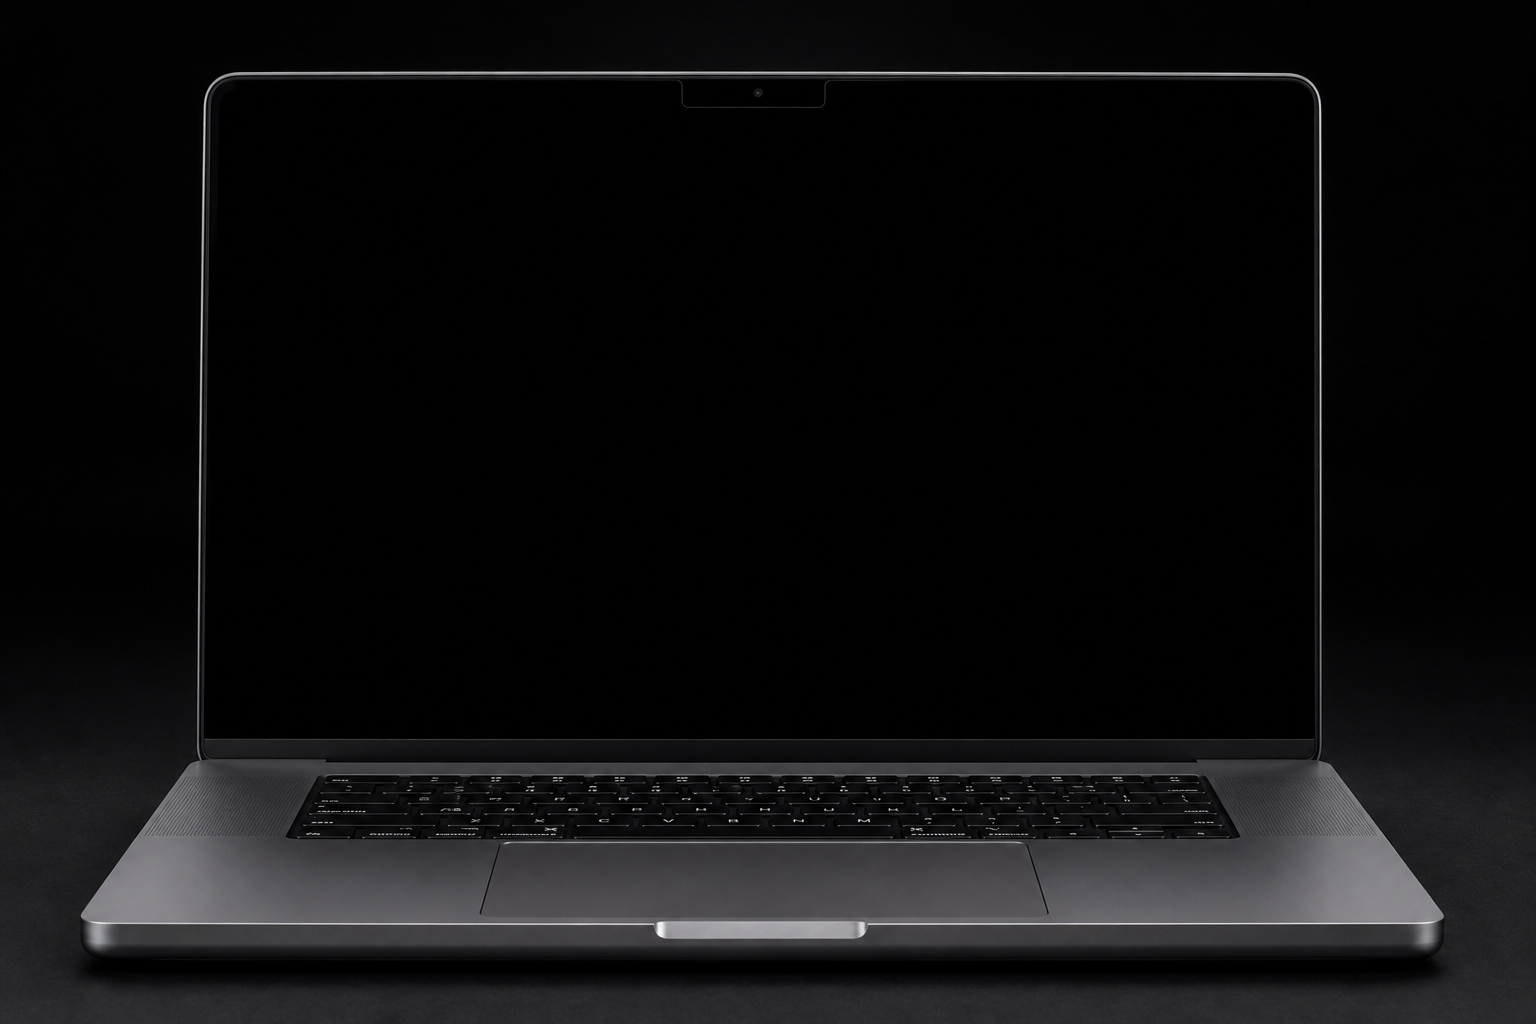
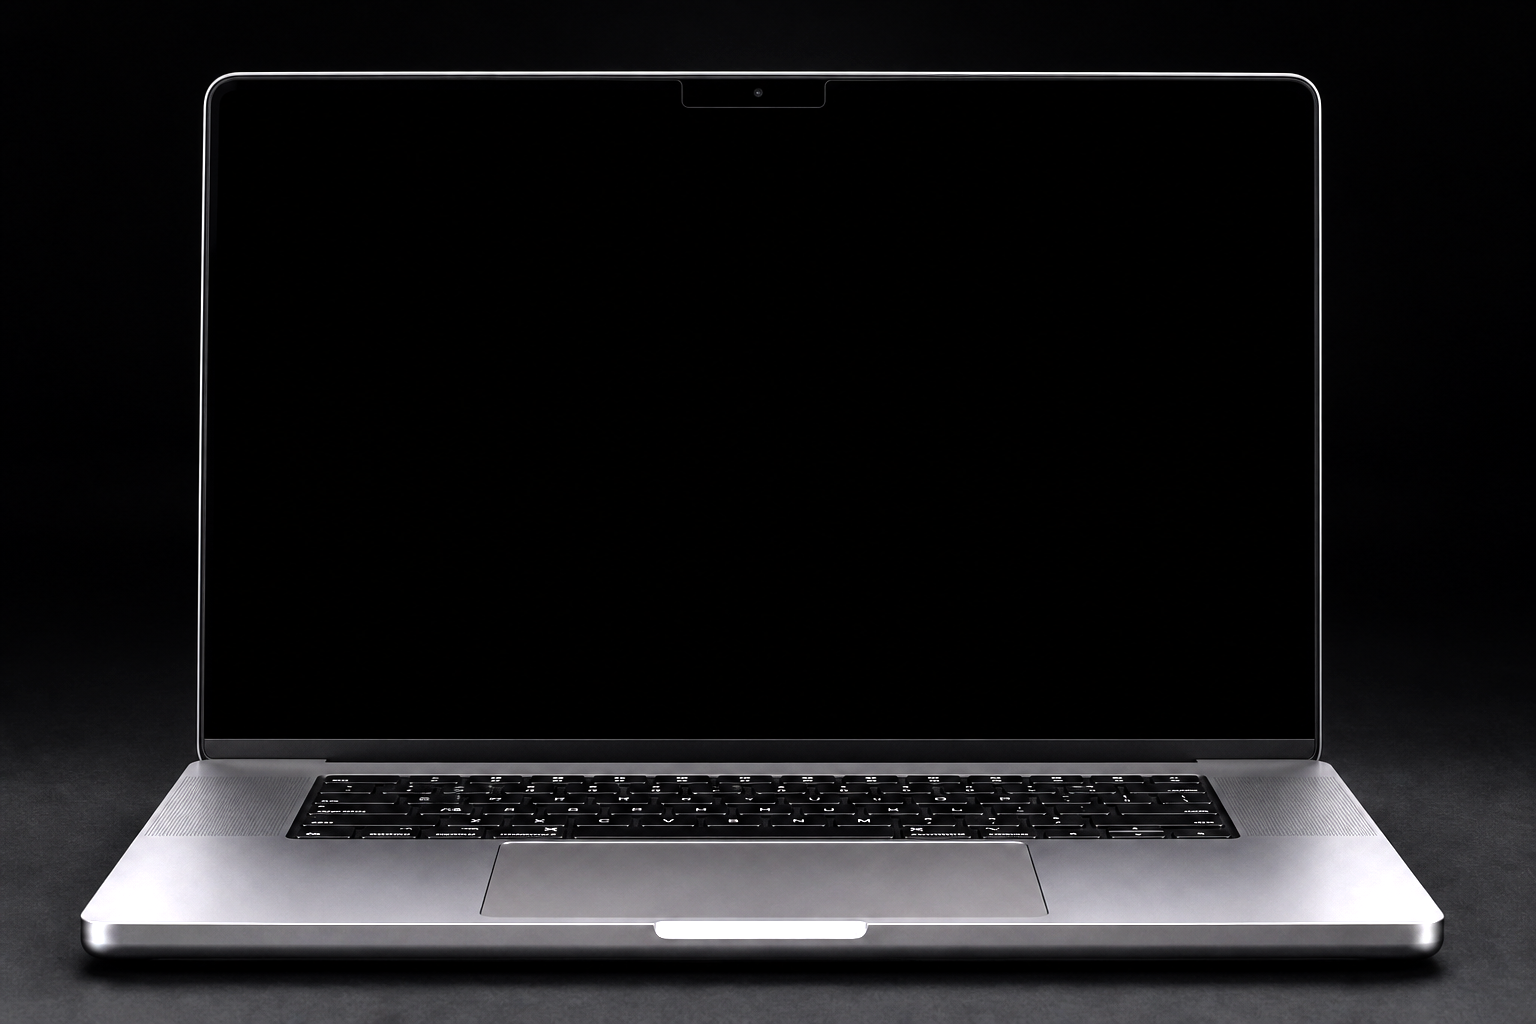
Lift the MacBook photo and pin captions to the start of the walk.
Dark chassis detail was getting lost on the canvas, and the copy swap
was stretched across the whole sticky section. Brighten the device still
and keep Overview through Advisor labels on the left as the screens change.

Changed region(s): [[0.0, 0.7188, 1.0, 1.0], [0.2188, 0.0625, 0.8438, 0.0938], [0.125, 0.0625, 0.1562, 0.0938]]

diff --git a/website/src/components/ProductWalk.tsx b/website/src/components/ProductWalk.tsx
@@ -43,8 +43,8 @@ export function ProductWalk({ release }: { release: LatestRelease }) {
       mm.add("(min-width: 1024px)", () => {
         gsap.set(laptop, {
           xPercent: 8,
-          yPercent: 5,
-          scale: 1.04,
+          yPercent: 4,
+          scale: 1.03,
         });
         gsap.set(caption, { opacity: 0, y: 18 });
 
@@ -80,7 +80,7 @@ export function ProductWalk({ release }: { release: LatestRelease }) {
               y: -36,
               pointerEvents: "none",
               ease: "none",
-              duration: COPY_END * 0.85,
+              duration: COPY_END * 0.7,
             },
             0,
           );
@@ -88,10 +88,11 @@ export function ProductWalk({ release }: { release: LatestRelease }) {
         if (caption) {
           tl.to(
             caption,
-            { opacity: 1, y: 0, ease: "none", duration: COPY_END * 0.5 },
-            COPY_END * 0.55,
+            { opacity: 1, y: 0, ease: "none", duration: COPY_END * 0.35 },
+            COPY_END * 0.45,
           );
         }
+        tl.to({}, { duration: 1 - COPY_END }, COPY_END);
       });
 
       mm.add("(max-width: 1023px)", () => {
@@ -128,6 +129,7 @@ export function ProductWalk({ release }: { release: LatestRelease }) {
             0,
           );
         }
+        tl.to({}, { duration: 0.82 }, 0.18);
       });
     }, stageRef);
 

diff --git a/website/src/components/MacBook.tsx b/website/src/components/MacBook.tsx
@@ -15,6 +15,7 @@ export function MacBook({ children, className }: MacBookProps) {
         alt=""
         width={1536}
         height={1024}
+        quality={92}
         priority
         sizes="(min-width: 1024px) 58vw, 94vw"
         className="macbook-photo-body"
